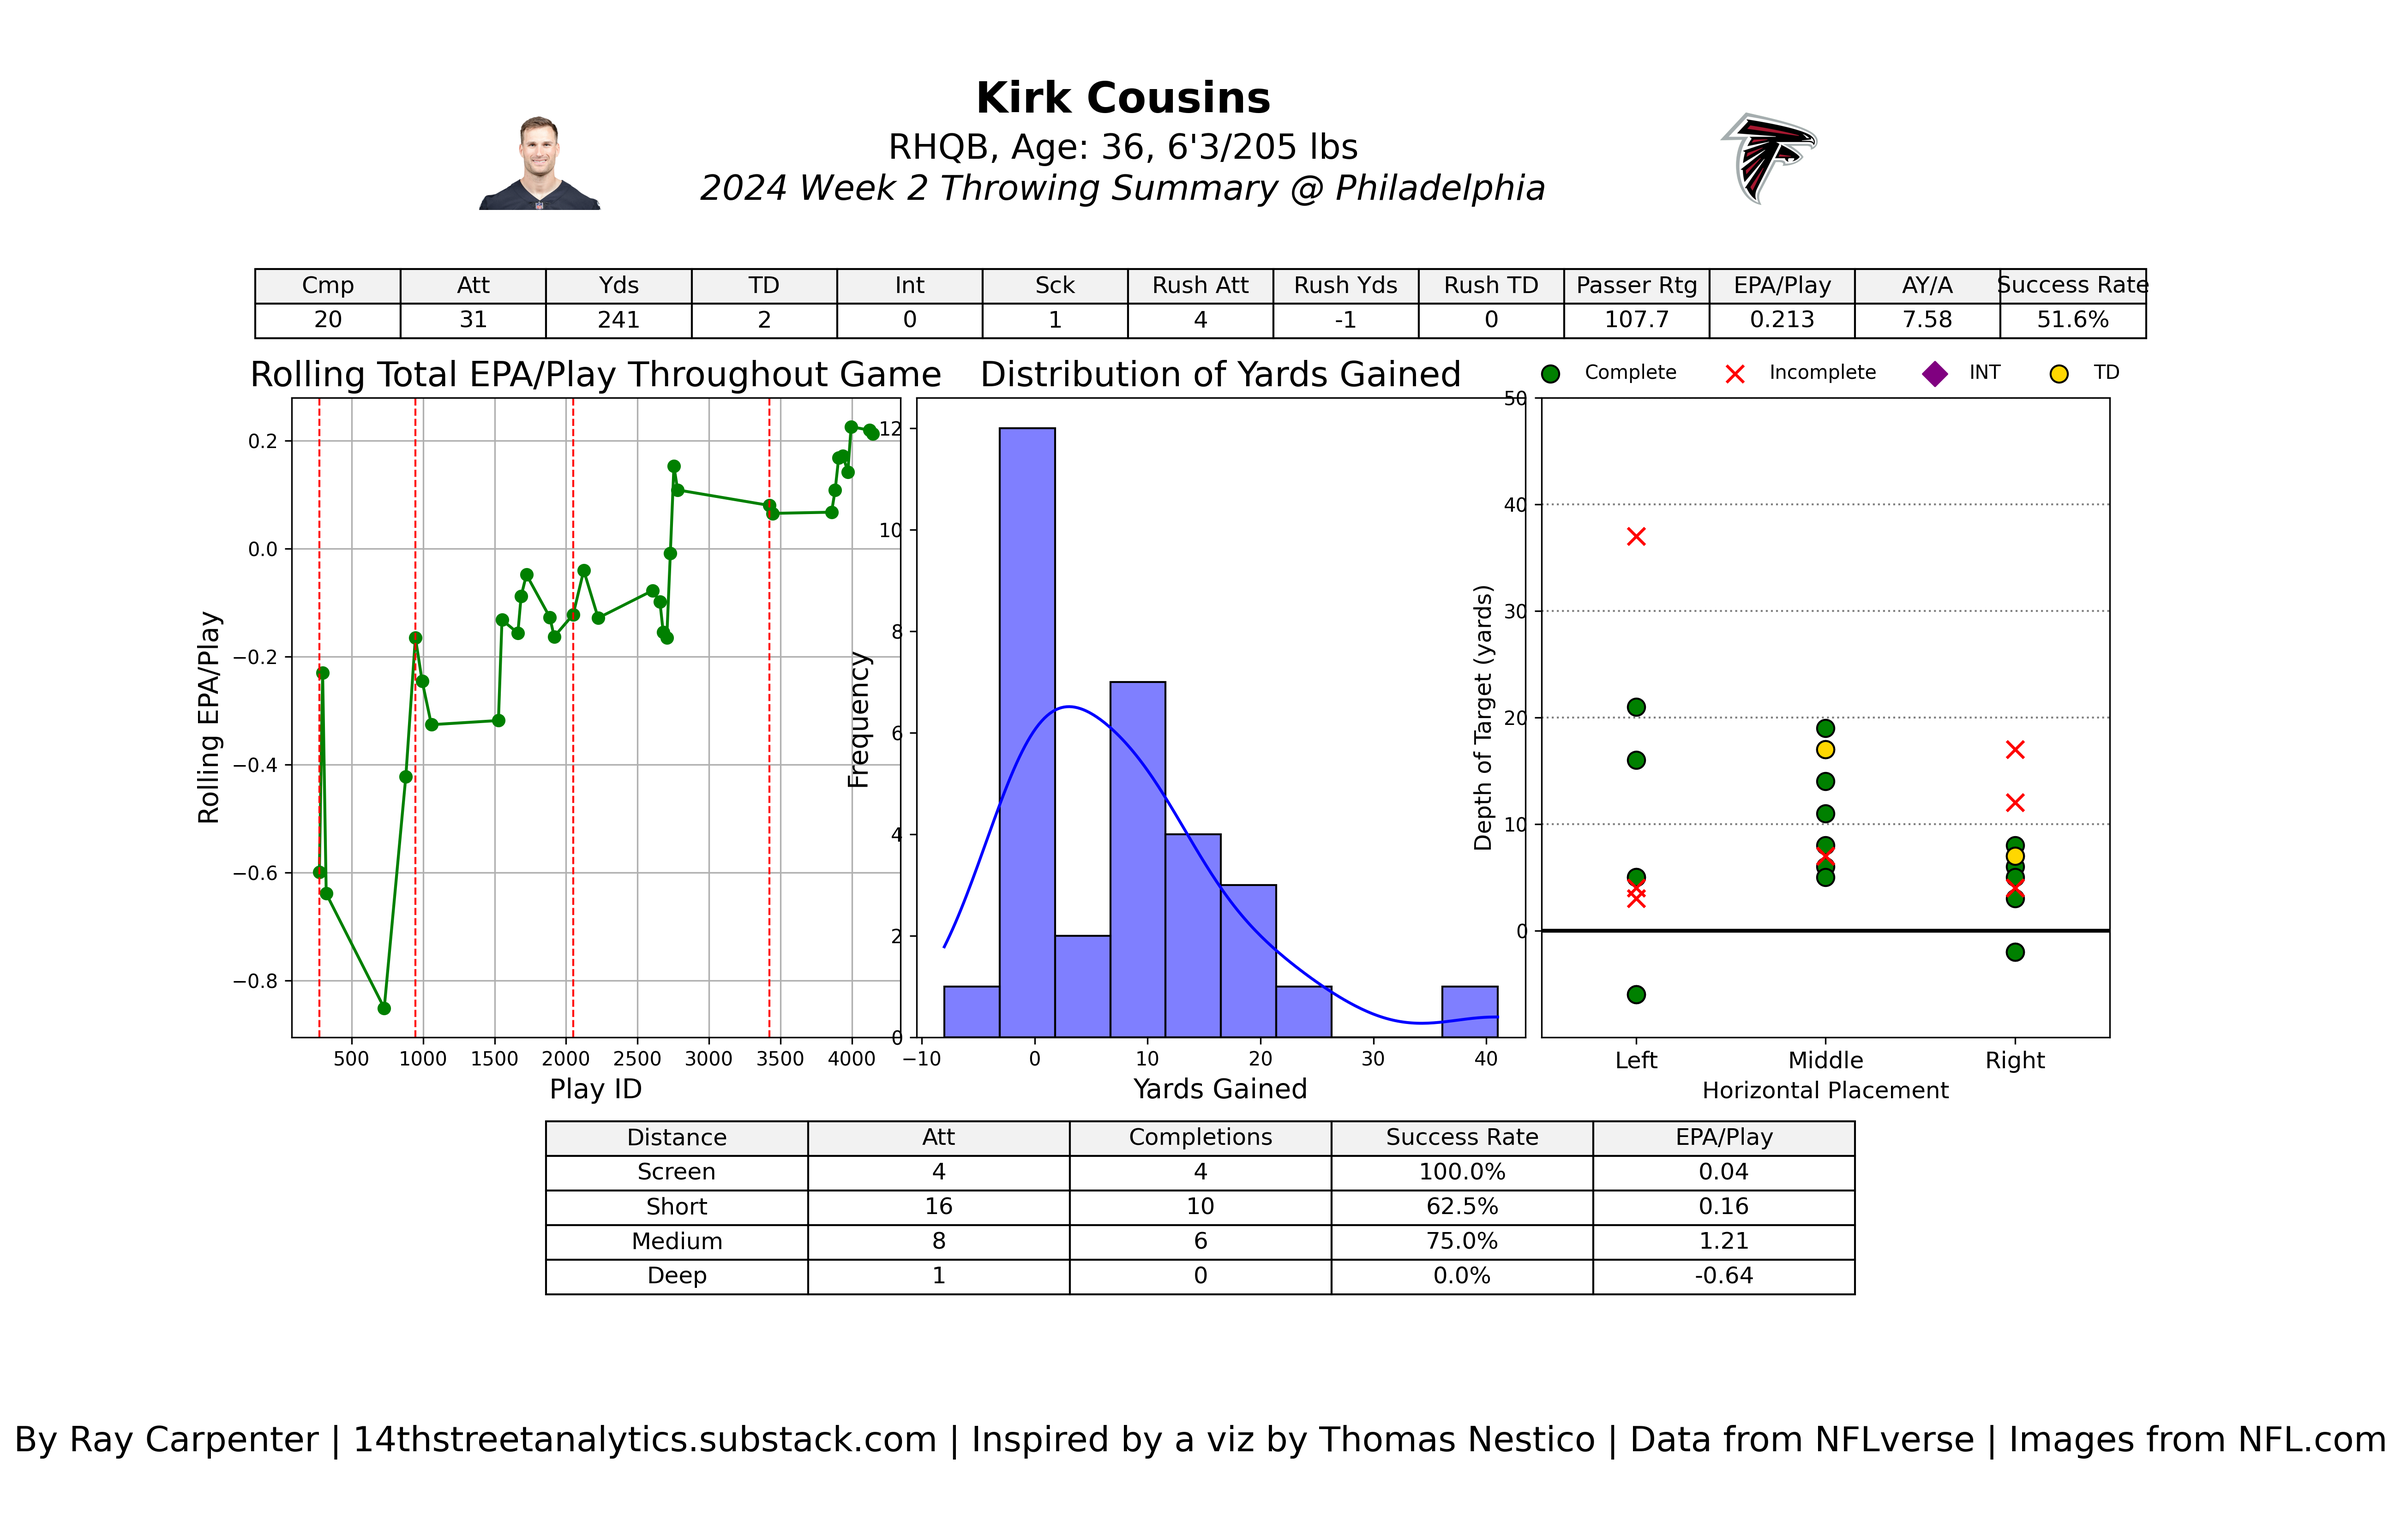
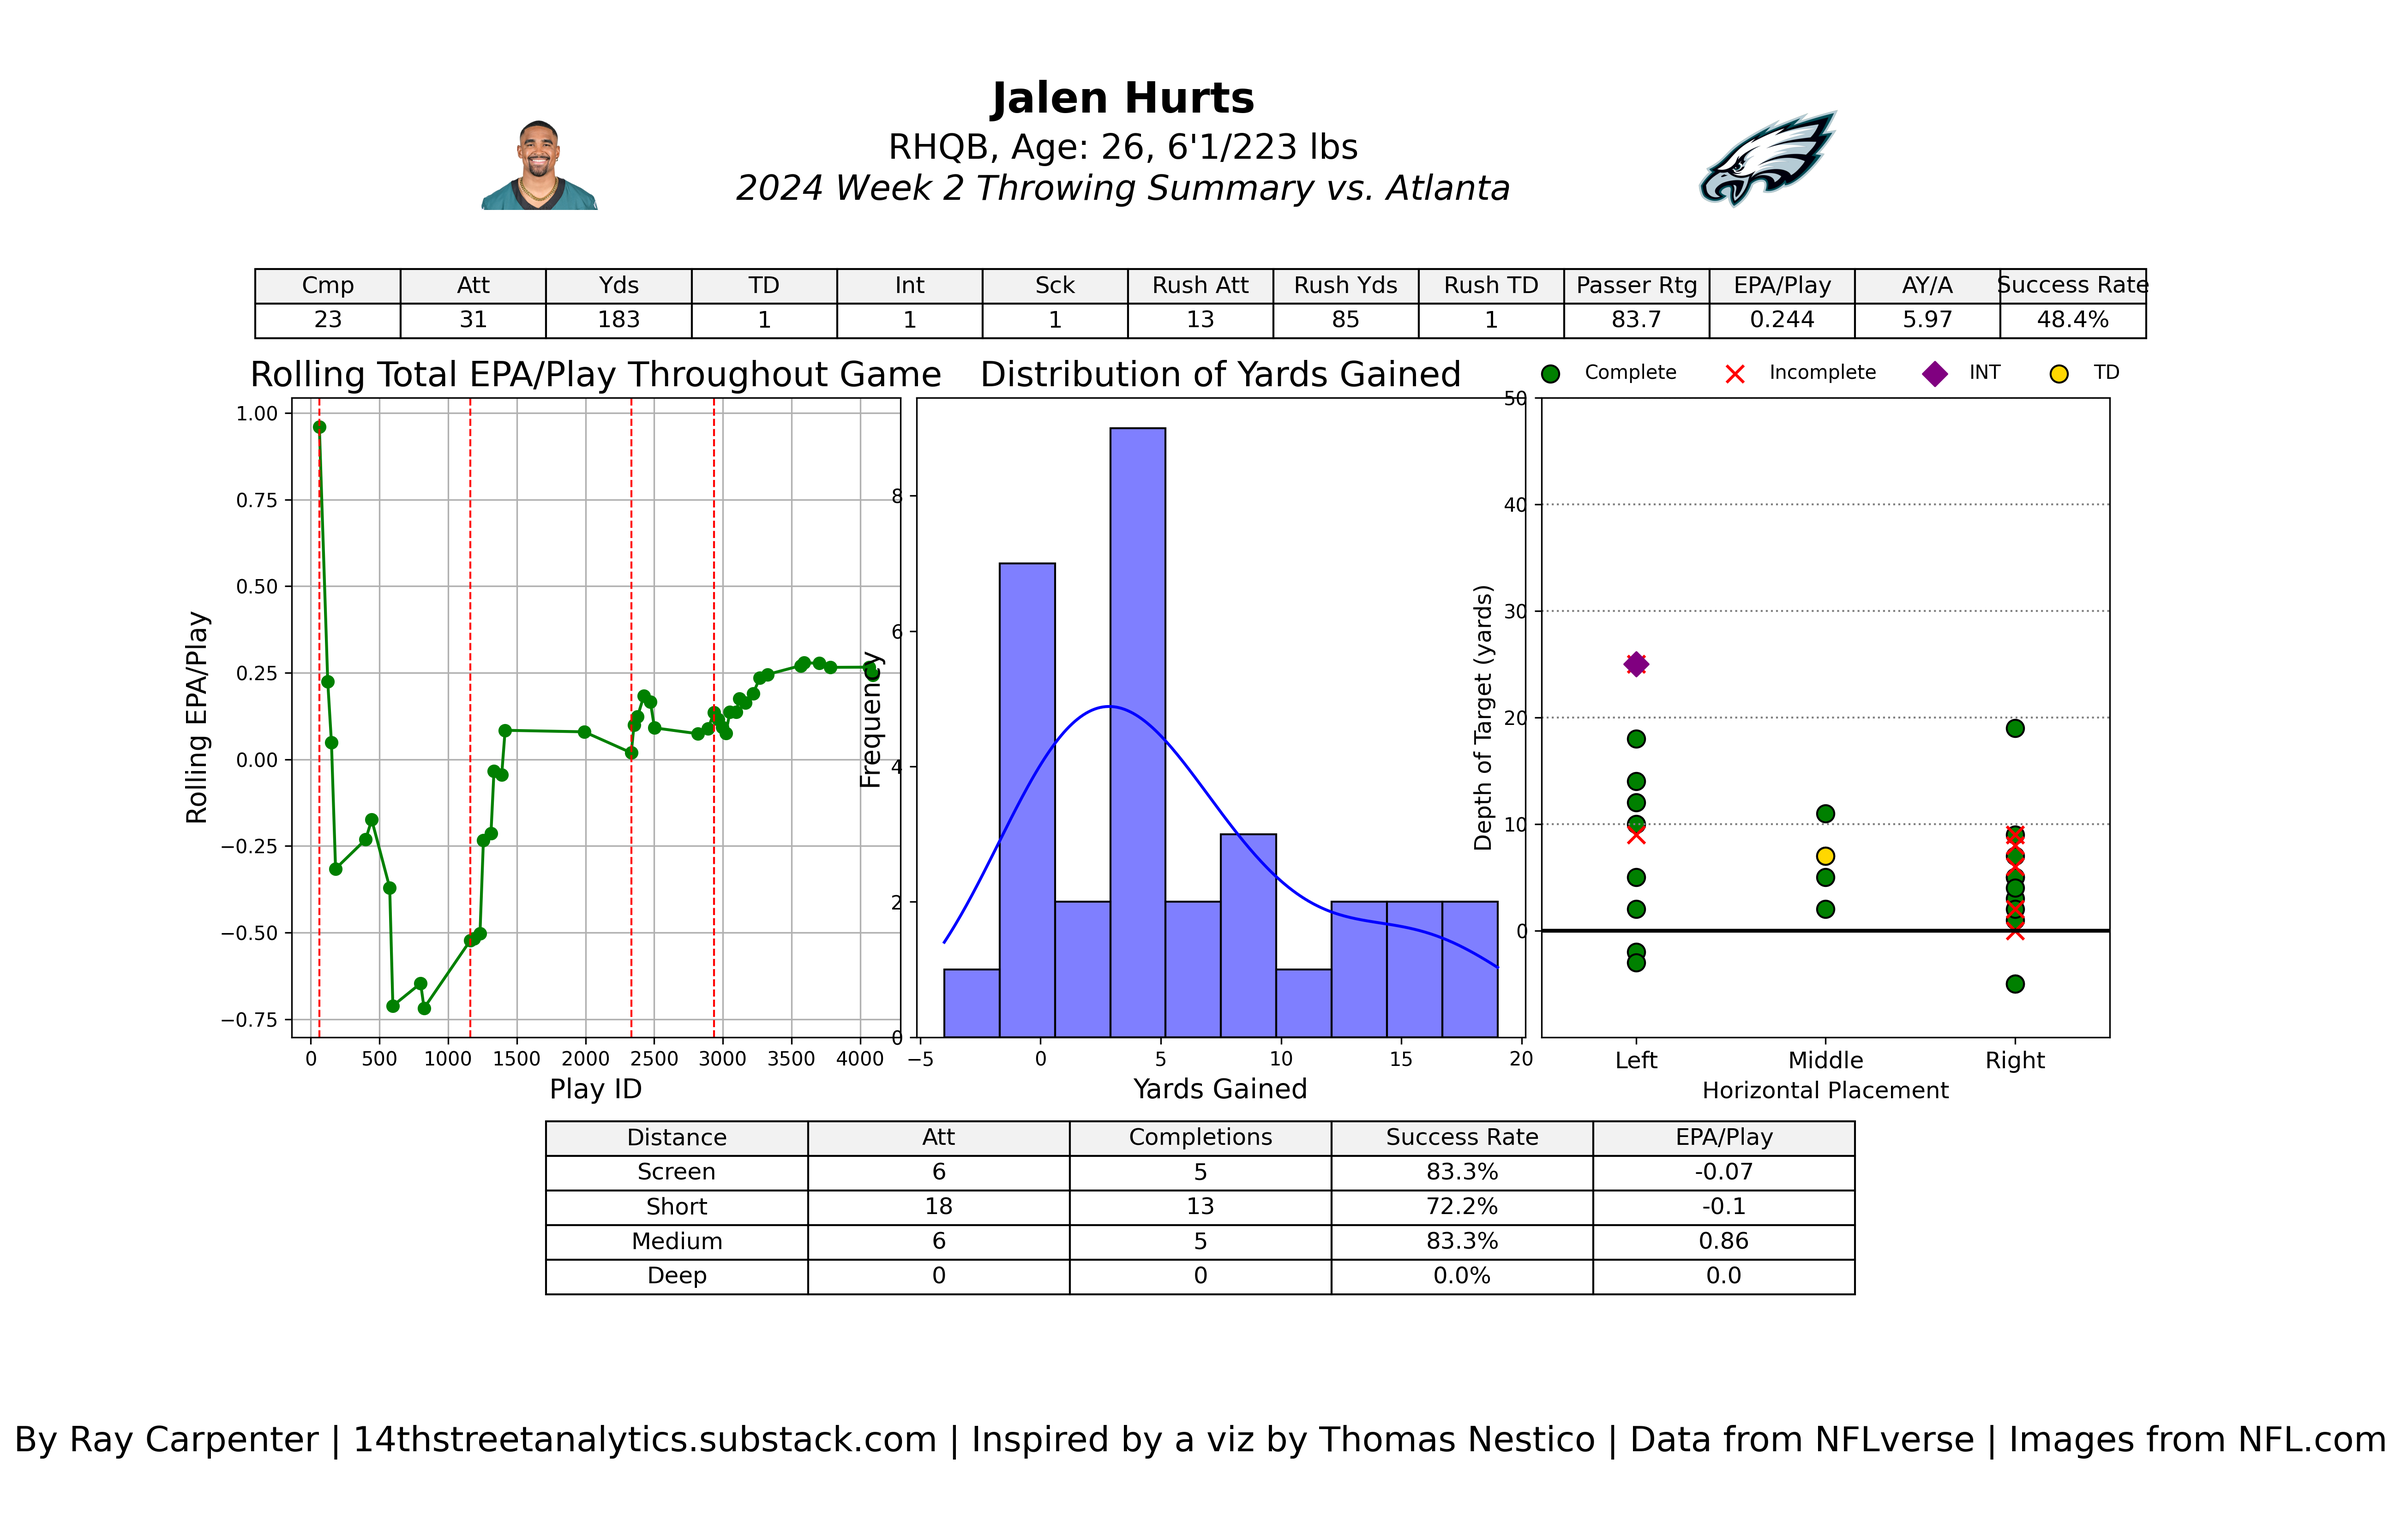
Added NFLVerse Names to sheet
For dyamic input

diff --git a/throwing_summary.py b/throwing_summary.py
@@ -6,6 +6,7 @@ import matplotlib.gridspec as gridspec
 import requests
 from io import BytesIO
 from PIL import Image
+from datetime import datetime
 
 # Define the year and load the data
 YEAR = 2024
@@ -15,7 +16,6 @@ data = pd.read_csv(url, compression='gzip', low_memory=False)
 # Set options for displaying dataframes
 pd.set_option('display.max_rows', 100)
 pd.set_option('display.max_columns', 400)
-
 
 # Function to get an image from ESPN based on player_id
 def get_espn_headshot(player_id: str):
@@ -41,23 +41,31 @@ def player_headshot(player_id: str, ax: plt.Axes):
         ax.text(0.5, 0.5, 'No Image', ha='center', va='center', fontsize=12)
         ax.axis('off')
 
-# Load the quarterback information (including player_id) from qb_info.csv
+# Load the quarterback information (including player_id and birthday) from qb_info.csv
 qb_info = pd.read_csv('C:/Users/RaymondCarpenter/Documents/GitHub/nfl_throwing_scorecard/qb_info.csv')
 
+# Assuming the game date is stored in a specific format (e.g., 'YYYY-MM-DD')
+game_date_str = '2024-09-15'  # Adjust as necessary for the game being summarized
+game_date = datetime.strptime(game_date_str, '%Y-%m-%d')
+
 # Retrieve player info based on player name
-player_name = 'Kirk Cousins'  # Make sure this matches the format in the CSV
+player_name = 'Jalen Hurts'  # Make sure this matches the format in the CSV
 player_info = qb_info[qb_info['Name'] == player_name].iloc[0]
+
+# Calculate the player's age based on their birthday and the game date
+player_birthday = pd.to_datetime(player_info['Birthday'], format='%m/%d/%Y')
+player_age = (game_date - player_birthday).days // 365  # Calculate age in years
 
 # Get the player ID from the CSV and use it to fetch the headshot
 player_id = player_info['player_id']
 headshot = get_espn_headshot(player_id)
 
 # Manual filters start here
-filtered_df = data[(data['home_team'] == 'ATL') | (data['away_team'] == 'ATL')] ### change team RAMS are LA Chargers are LAC
+filtered_df = data[(data['home_team'] == 'PHI') | (data['away_team'] == 'PHI')] ### change team RAMS are LA Chargers are LAC
 
 # Separate filters for passing and rushing plays
-passing_plays = filtered_df[filtered_df['passer_player_name'] == 'K.Cousins'] ### change qb
-rushing_plays = filtered_df[filtered_df['rusher_player_name'] == 'K.Cousins'] ### change qb
+passing_plays = filtered_df[filtered_df['passer_player_name'] == 'J.Hurts'] ### change qb
+rushing_plays = filtered_df[filtered_df['rusher_player_name'] == 'J.Hurts'] ### change qb
 
 # Filter game data by game id
 game_data_passing = passing_plays[passing_plays['game_id'] == '2024_02_ATL_PHI'] ### follow format YEAR_WEEK_AWAY_HOME 2023_12_BUF_PHI
@@ -136,7 +144,6 @@ for end_time in quarter_end_times:
 if overtime or (len(quarter_positions) > 0 and quarter_positions[-1] == 0):
     quarter_positions = quarter_positions[:-1]
 
-
 # Create bins for pass distances
 bins = [-np.inf, 1, 10, 25, np.inf]
 labels = ['Screen', 'Short', 'Medium', 'Deep']
@@ -202,14 +209,7 @@ summary_table = {
 # Create the updated summary DataFrame
 summary_df = pd.DataFrame.from_dict(summary_table)
 
-player_name = 'Kirk Cousins' 
-player_info = qb_info[qb_info['Name'] == player_name].iloc[0]
-
-# Get the player ID from the CSV and fetch the headshot
-player_id = player_info['player_id']
-headshot = get_espn_headshot(player_id)
-
-logo_path = '/Users/raymondcarpenter/Documents/GitHub/nfl_throwing_scorecard/falcons_logo.png' # manually find logo path
+logo_path = '/Users/raymondcarpenter/Documents/GitHub/nfl_throwing_scorecard/eagles_logo.png' # manually find logo path
 logo = Image.open(logo_path)
 
 def qb_dashboard(game_data_passing: pd.DataFrame, headshot: Image, logo: Image, summary_df: pd.DataFrame, pass_distance_summary: pd.DataFrame, quarter_positions, save_path: str = None):
@@ -244,26 +244,22 @@ def qb_dashboard(game_data_passing: pd.DataFrame, headshot: Image, logo: Image, 
     ax_left.axis('off')
     ax_right.axis('off')
 
-# Use the player_headshot function to display the headshot
+    # Use the player_headshot function to display the headshot
     player_headshot(player_id, ax_headshot)
 
-# Plot logo as before
+    # Plot logo as before
     ax_logo.imshow(logo)    
     ax_logo.axis('off')
 
-# Retrieve player info based on player name
-    player_info = qb_info[qb_info['Name'] == player_name].iloc[0]
-
-# Extract relevant data
+    # Extract relevant data
     player_height = player_info['Height']  # Assuming 'Height' is stored in feet and inches as '6\'3"'      
     player_weight = player_info['Weight']  # Assuming weight is stored as an integer value
 
-# Adjust biographical information display
+    # Adjust biographical information display
     ax_bio.text(0.5, 0.95, player_name, fontsize=22, ha='center', fontweight='bold')  # Dynamically display QB name
-    ax_bio.text(0.5, 0.50, f'{player_info["dexterity"]}HQB, Age: {player_info["Age"]}, {player_height}/{player_weight} lbs', fontsize=18, ha='center')  # Dynamically display height and weight
-    ax_bio.text(0.5, 0.1, f'2024 Week 2 Throwing Summary @ Philadelphia', fontsize=18, ha='center', fontstyle='italic')  # Still manually set game information
+    ax_bio.text(0.5, 0.50, f'{player_info["dexterity"]}HQB, Age: {player_age}, {player_height}/{player_weight} lbs', fontsize=18, ha='center')  # Dynamically display height and weight
+    ax_bio.text(0.5, 0.1, f'2024 Week 2 Throwing Summary vs. Atlanta', fontsize=18, ha='center', fontstyle='italic')  # Still manually set game information
     ax_bio.axis('off')
-
 
     # Summary Table Plot - Adjusted for more compact cells
     ax_summary_table.axis('off')
@@ -347,10 +343,6 @@ def qb_dashboard(game_data_passing: pd.DataFrame, headshot: Image, logo: Image, 
     if save_path:
         plt.savefig(save_path, dpi=300, bbox_inches='tight')
 
-    # Show the figure
-    #plt.show()
-
-save_path = '/Users/raymondcarpenter/Documents/GitHub/14thstreetanalytics/throwing_summary/qb_dashboard.png'
+save_path = 'C:/Users/RaymondCarpenter/Documents/GitHub/nfl_throwing_scorecard/qb_dashboard.png'
 
 qb_dashboard(game_data_passing, headshot, logo, summary_df, pass_distance_summary, quarter_positions, save_path=save_path)
-
